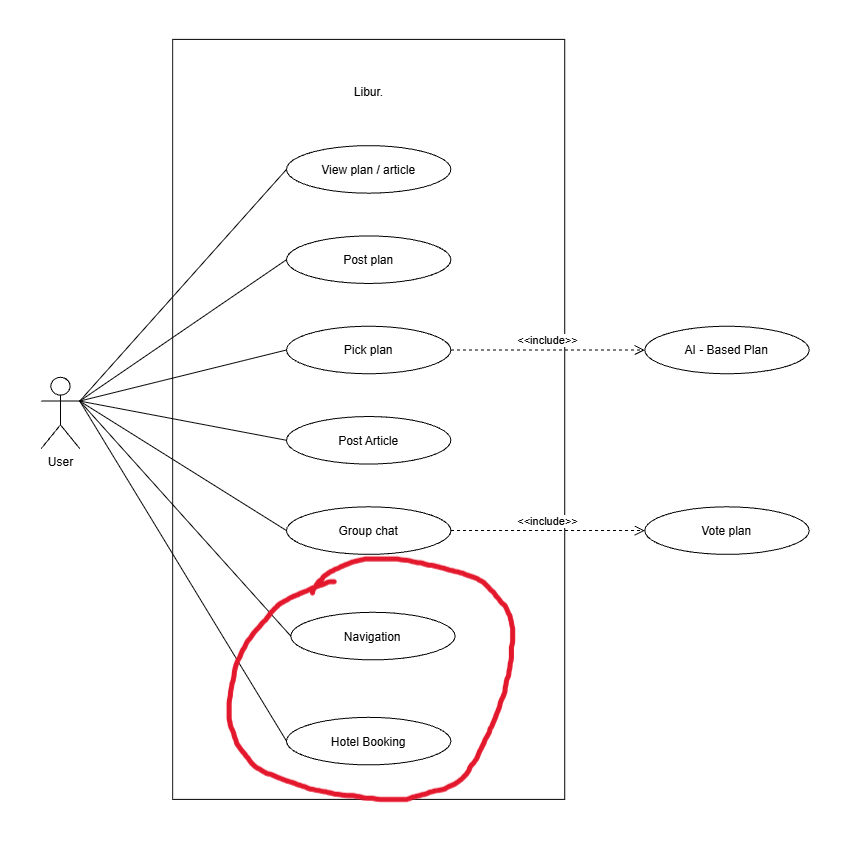
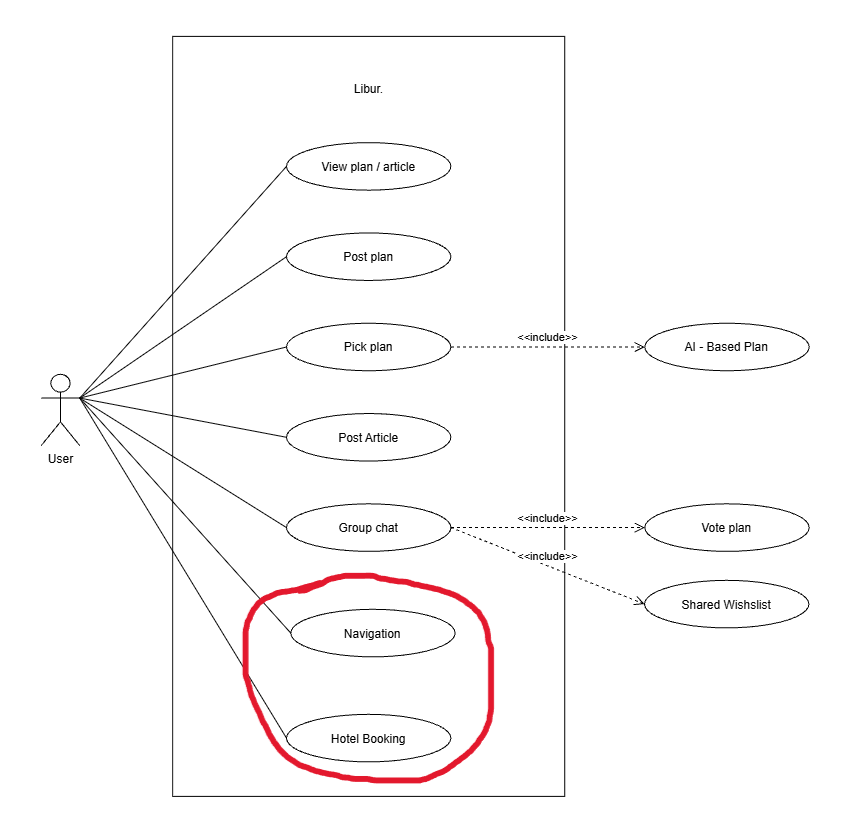
Update

diff --git a/README.md b/README.md
@@ -3,7 +3,7 @@
 
 # Libur
 
-**Libur** ("holiday" / "day off" in Malay & Indonesian) is a collaborative trip-planning app that combines AI-generated plans   , community-shared travel plans and articles, and group decision-making where everybody wants (group chat + in-app voting) so that planning a trip with friends stops being a scattered mess around different apps.
+**Libur** ("holiday" / "day off" in Malay & Indonesian) is a collaborative trip-planning app that combines AI-generated plans, community-shared travel plans and articles, and group decision-making where every voice is heard — group chat, in-app voting, and a shared wishlist — so that planning a trip with friends stops being a scattered mess spread across different apps, and everyone's wishes actually get fulfilled.
 
 ---
 
@@ -11,14 +11,18 @@
 
 ### Problem & Idea Origin
 
-Group trips constantly fall apart at the planning stage because itineraries and ideas end up scattered across half a dozen different apps. Furthermore, as our own real-life experiences prove, many of us are simply too lazy to take on the tedious burden of building a structured schedule from scratch. This sparked a realization: instead of forcing users to create a plan from zero, why not let them easily grab, adapt, and engage with proven itineraries already used by the community? To solve this, Libur blends AI-generated plans, community-shared trips, travel articles (inspired by Substack), and in-chat voting into one seamless platform—letting your group experience a perfectly curated vacation without the mental heavy lifting.
+Group trips constantly fall apart at the planning stage because itineraries and ideas end up scattered across half a dozen different apps. Furthermore, as our own real-life experiences prove, many of us are simply too lazy to take on the tedious burden of building a structured schedule from scratch. This sparked a realization: instead of forcing users to create a plan from zero, why not let them easily grab, adapt, and engage with proven itineraries already used by the community? To solve this, Libur blends AI-generated plans, community-shared trips, travel articles (inspired by Substack), and in-chat voting into one seamless platform — letting your group experience a perfectly curated vacation without the mental heavy lifting. On top of that, group members can drop their individual must-dos into a shared wishlist, and the AI automatically weaves them together into an itinerary.
 
 - **AI-Based Plan** — AI suggestions (place, accommodation, transport).
+
 - **Article + Plan duality** — users can post either inspirational travel articles *or* structured plans, and view/browse both through the same "View plan/article" entry point, blending inspiration and execution in one feed.
+
 - **Voting** — ensuring every voice is heard and keeping the group happy with transparent, democratic decision-making built right into the discussion.
 
+- **Collaborative AI Group Plan** — group members drop their individual must-dos into a shared wishlist, and the AI automatically weaves them together into a balanced master itinerary, ensuring everyone's wishes come true without the scheduling headaches.
+
 ### Visual Diagrams & Mindmaps
-The core feature set was mapped as a UML **use-case diagram**, evolved across two passes:
+The core feature set was mapped as a UML **use-case diagram**, evolved across three passes:
 
 **Latest use-case diagram**
 
@@ -31,10 +35,24 @@ Libur went through a documented pivot between its hand-drawn draft and the final
 
 ![Draft use-case diagram, hand-drawn](./assets/usecase-diagram-draft.jpg)
 
+
+
+**Second draft**
+
+![Second use-case diagram, hand-drawn](./assets/usecase-diagram-second.png)
+
 | Draft | Final | What changed & why |
 |---|---|---|
 | *Vote plan* listed as its own standalone use case | *Vote plan* included into **Group chat**  | Voting only makes sense in the context of a group discussion, so it was merged into the chat flow instead of being a separate, disconnected action. |
 | *AI-Based Plan* listed as its own standalone use case | *AI-Based Plan* included into **Pick plan** | The team realized AI generation isn't a feature on its own — it's the mechanism *behind* plan selection, so the relationship was formalized as an include rather than a floating idea. |
+
+**Latest draft**
+
+![Second use-case diagram, hand-drawn](./assets/usecase-diagram-third.png)
+
+| Draft | Final | What changed & why |
+|---|---|---|
+| *Shared Wishlist* wasn't listed | *Shared Wishlist* is included into **Group chat**  | The idea came out of nowhere mid-build — not a planned pivot, just a spontaneous "what if everyone could drop their must-dos in and let the AI merge them" moment that got added as a second <<include>> off Group chat. |
 
 ### From use case to UI/UX Prototype
 
@@ -51,14 +69,13 @@ The final use-case diagram wasn't just documentation — it was used directly as
 **Voting UI/UX**
 ![Voting UI/UX](./assets/Mockup%20Page%20(2).png)
 
+**Collaborative AI Group Plan UI/UX**
+![Collaborative AI Group Plan UI/UX](./assets/Mockup%20Page%20(3).png)
+
 
 During the UI/UX design phase, we realized that keeping users in one cohesive app meant solving the friction of execution, not just planning. To ensure the entire trip lifecycle happens in one place, we are considering to expand our feature set to navigation and hotel booking.
 
 ![New Use-case Consideration](./assets/consideration%201.0.png)
 
 
-## Appendix: Assets
-- `assets/usecase-diagram-draft.jpg` — early hand-drawn use-case sketch
-- `assets/usecase-diagram-final.jpg` — final digital use-case diagram
-- `assets/ideation-board.png` — full ideation/mockup board
-- `assets/consideration 1.0.png` — new use-case consideration
+
